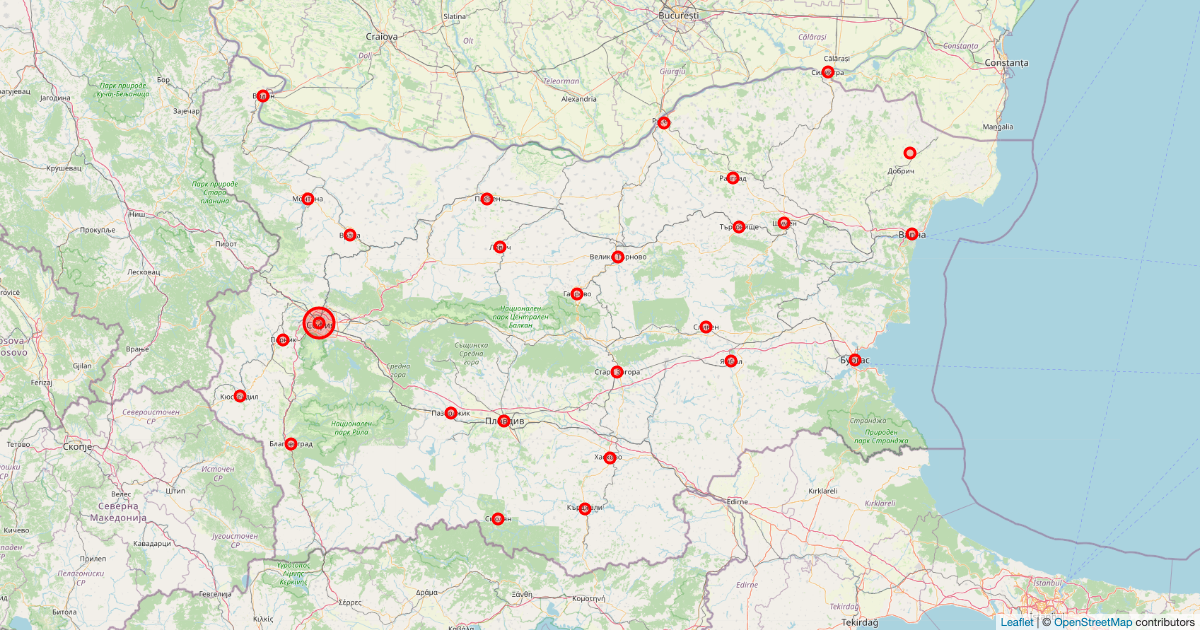
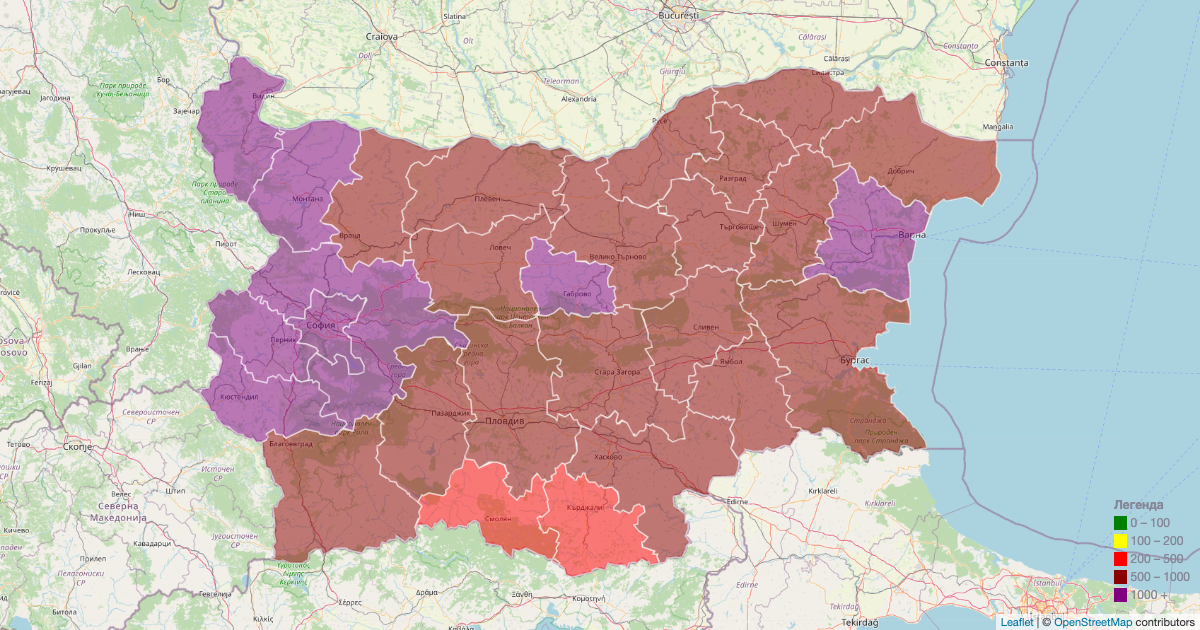
Added interactive map capabilities.

diff --git a/components/CasesMap/MapRegions.js b/components/CasesMap/MapRegions.js
@@ -1,0 +1,92 @@
+import PropTypes from 'prop-types';
+import { GeoJSON } from 'react-leaflet';
+import useTranslation from 'next-translate/useTranslation';
+
+const MapRegions = (props) => {
+  const {
+    geoJson,
+    regionsNameMapping,
+    regionsDataset,
+  } = props;
+
+  const { t } = useTranslation();
+
+  const casesToColor = (cases) => {
+    if (cases < 100) return 'green';
+    if (cases < 200) return 'yellow';
+    if (cases < 500) return 'red';
+    if (cases < 1000) return 'darkred';
+
+    return 'purple';
+  };
+
+  const regionStyle = (feature) => {
+    const {
+      properties: { nuts3 },
+    } = feature;
+
+    const regionName = regionsNameMapping[nuts3];
+    const regionDataset = regionsDataset[regionName];
+
+    return {
+      fillColor: casesToColor(regionDataset.infected_14d_100k),
+      weight: 1.5,
+      opacity: 0.5,
+      color: 'white',
+      fillOpacity: 0.5,
+    };
+  };
+
+  const tooltipText = (region, regionDataset) => `
+      <strong>${region}</strong>
+      <br />
+      ${t('map:region_tooltip.infected')}: ${regionDataset.infected}
+      <br />
+      ${t('map:region_tooltip.newly_infected')}: ${regionDataset.newly_infected}
+      <br />
+      ${t('map:region_tooltip.infected_14d_100k')}: ${regionDataset.infected_14d_100k}
+      <br />
+      ${t('map:region_tooltip.doses')}: ${regionDataset.doses}
+      <br />
+      ${t('map:region_tooltip.new_doses')}: ${regionDataset.new_doses}
+      <br />
+      ${t('map:region_tooltip.fully_vaccinated')}: ${regionDataset.fully_vaccinated}
+      <br />
+      ${t('map:region_tooltip.booster')}: ${regionDataset.booster}
+      <br />
+      ${t('map:region_tooltip.new_booster')}: ${regionDataset.new_booster}
+      <br />
+  `;
+
+  const onEachFeature = (feature, layer) => {
+    layer.on({
+      mouseover: (e) => {
+        const regionName = regionsNameMapping[e.target.feature.properties.nuts3];
+        const regionDataset = regionsDataset[regionName];
+
+        layer.bindTooltip(tooltipText(regionName, regionDataset));
+        layer.openTooltip();
+      },
+      mouseout: () => {
+        layer.unbindTooltip();
+        layer.closeTooltip();
+      },
+    });
+  };
+
+  return (
+    <GeoJSON
+      data={geoJson}
+      style={regionStyle}
+      onEachFeature={onEachFeature}
+    />
+  );
+};
+
+MapRegions.propTypes = {
+  geoJson: PropTypes.object.isRequired,
+  regionsNameMapping: PropTypes.object.isRequired,
+  regionsDataset: PropTypes.object.isRequired,
+};
+
+export default MapRegions;

diff --git a/components/CasesMap/CasesMap.js b/components/CasesMap/CasesMap.js
@@ -1,41 +1,22 @@
 import PropTypes from 'prop-types';
+import { useState } from 'react';
 import BulgariaMap from './BulgariaMap';
-import MapMarker from './MapMarker';
-import MapCustomizations from './MapCustomizations.json';
+import Legend from './Legend';
+import MapRegions from './MapRegions';
+import RegionsGeoJSON from './regions_geojson.json';
+import RegionsNameMappingJSON from './regions_name_mapping.json';
 
 const CasesMap = ({ data, ...rest }) => {
-  const tooltipText = (location, infected) => (
-    <>
-      <strong>{location}</strong>
-      <br />
-      {`Заразени: ${infected}`}
-      <br />
-    </>
-  );
+  const [map, setMap] = useState(null);
 
   return (
-    <BulgariaMap {...rest}>
-      {
-        Object.entries(data).map(([location, {
-          coordinates,
-          infected,
-        }]) => {
-          let circleProps = {};
-
-          if (MapCustomizations[location] && MapCustomizations[location].circleProps) {
-            circleProps = MapCustomizations[location].circleProps;
-          }
-
-          return (
-            <MapMarker
-              key={location}
-              coordinates={coordinates}
-              tooltip={tooltipText(location, infected)}
-              circleProps={circleProps}
-            />
-          );
-        })
-      }
+    <BulgariaMap whenCreated={setMap} {...rest}>
+      <Legend map={map} />
+      <MapRegions
+        geoJson={RegionsGeoJSON}
+        regionsNameMapping={RegionsNameMappingJSON}
+        regionsDataset={data}
+      />
     </BulgariaMap>
   );
 };

diff --git a/components/CasesMap/Legend.js b/components/CasesMap/Legend.js
@@ -1,0 +1,55 @@
+import PropTypes from 'prop-types';
+import { useEffect } from 'react';
+import L from 'leaflet';
+import useTranslation from 'next-translate/useTranslation';
+
+const Legend = ({ map }) => {
+  const { t } = useTranslation();
+
+  const casesToColor = (cases) => {
+    if (cases < 100) return 'green';
+    if (cases < 200) return 'yellow';
+    if (cases < 500) return 'red';
+    if (cases < 1000) return 'darkred';
+
+    return 'purple';
+  };
+
+  useEffect(() => {
+    if (!map) return;
+
+    const legend = L.control({ position: 'bottomright' });
+
+    legend.onAdd = () => {
+      const div = L.DomUtil.create('div', 'info legend');
+      const grades = [0, 100, 200, 500, 1000];
+      const labels = [];
+      let from;
+      let to;
+
+      for (let i = 0; i < grades.length; i += 1) {
+        from = grades[i];
+        to = grades[i + 1];
+
+        labels.push(`<i style="background-color: ${casesToColor(from + 1)};">&nbsp;&nbsp;&nbsp;&nbsp;</i> ${from} ${(to ? `&ndash; ${to}` : '+')}`);
+      }
+
+      div.innerHTML = `<strong>${t('map:legend')}</strong><br>${labels.join('<br>')}`;
+      return div;
+    };
+
+    legend.addTo(map);
+  }, [map]);
+
+  return null;
+};
+
+Legend.propTypes = {
+  map: PropTypes.object,
+};
+
+Legend.defaultProps = {
+  map: null,
+};
+
+export default Legend;

diff --git a/pages_/map.js b/pages_/map.js
@@ -75,7 +75,7 @@ const Map = () => {
           <h1 className="h3 mb-0 text-gray-800">{t('map:page_title')}</h1>
         </div>
         <Row className="mt-3">
-          <Col className="mb-4" style={{ height: '400px' }}>
+          <Col className="mb-4" style={{ height: '500px' }}>
             {isLoading
               ? <Spinner animation="border" variant="primary" />
               : <CasesMap data={geoData} zoom={zoom} whenReady={fixZoom} zoomSnap={0.5} />}

diff --git a/pages/open-graph-map.js b/pages/open-graph-map.js
@@ -3,8 +3,9 @@ import I18nProvider from 'next-translate/I18nProvider'
 import React from 'react'
 import C from '../pages_/open-graph-map'
 import ns0 from '../locales/bg/common.json'
+import ns1 from '../locales/bg/map.json'
 
-const namespaces = { 'common': ns0 }
+const namespaces = { 'common': ns0, 'map': ns1 }
 
 export default function Page(p){
   return (
